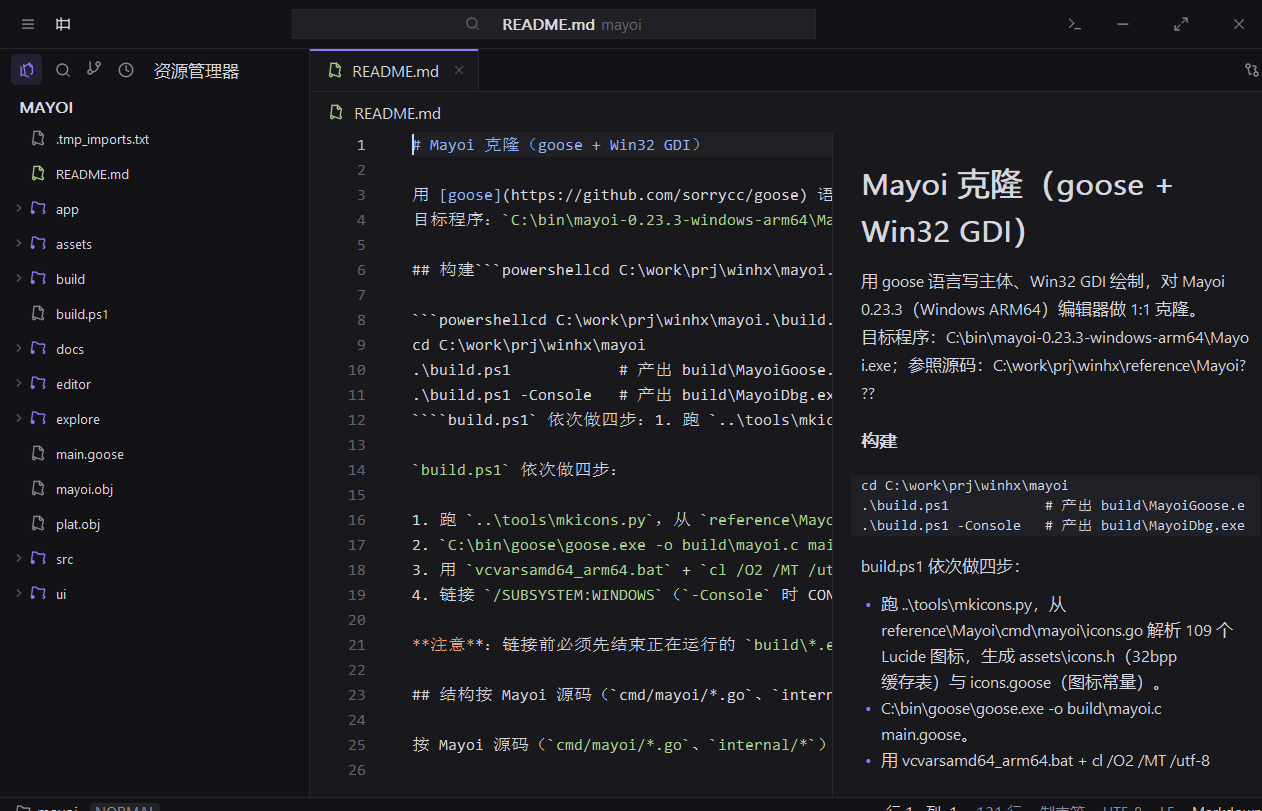
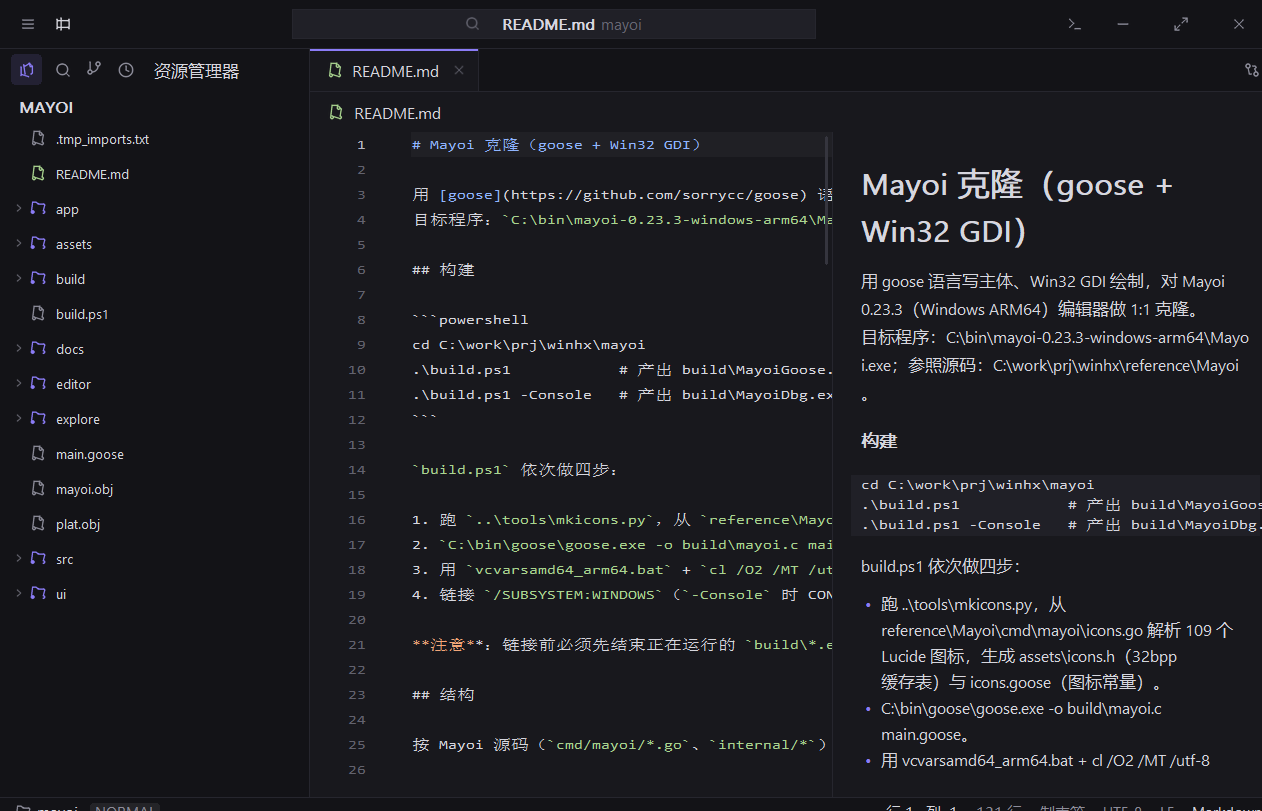
docs: preview, settings, scrollbar and SCM state; refresh preview screenshots

diff --git a/mayoi/README.md b/mayoi/README.md
@@ -64,6 +64,7 @@ cd C:\work\prj\winhx\mayoi
 | `app/prefs/model.goose` | 设置模型：解析内容表、分区名与图标、按键查值/改值、布尔/数字/枚举换算、默认值与「已更改」判定、跨分区搜索、快捷键分区 |
 | `app/prefs/paint.goose` | 设置窗口绘制：遮罩 + 940×690 窗体、标题栏与关闭、左侧搜索框/11 个分区/已更改徽标/settings.json 与 keybindings.json 链接、右侧分区标题与「用户」范围选择、逐项卡片（标题/说明/键名/控件）、开关/步进/下拉/文本框/列表、下拉浮层、滚动条 |
 | `app/prefs/input.goose` | 设置窗口交互：分区切换、搜索输入、开关、加减、下拉选择、文本编辑与提交、恢复默认、Esc 关闭、滚轮滚动、悬停 |
+| `app/preview/preview.goose` | Markdown 预览：标题/段落/列表/任务勾选框/引用/代码块/表格/分割线，按词折行并在超长词处断开，独立滚动与右侧 overlay 滚动条 |
 | `app/sidebar/sessions.goose` | 会话视图：已打开文档列表，点击切换 |
 | `editor/text.goose` | 文档模型：行索引、插入/删除/替换、选区、列/行换算 |
 | `editor/syntax.goose` | Go 语法着色（关键字/字符串/注释/数字） |
@@ -91,6 +92,10 @@ cd C:\work\prj\winhx\mayoi
 - Vim 模式（设置里打开 `vim`，或菜单「查看 › Vim 模式」）：状态栏显示 NORMAL / INSERT / VISUAL / V-LINE / EX 徽标（NORMAL 灰底、INSERT 紫、VISUAL 琥珀），并显示已敲的前缀键。支持 h j k l w b e 0 ^ $ gg G（带 count）、dd cc yy、d/c/y + 移动、x p P、i a I A o O、u / Ctrl+R、v / V、`:` 命令行（`:w` `:q` `:wq` `:x` `:<行号>`）、Esc 逐级退出；寄存器跨行保存，重切文档回到 NORMAL。（`docs/vim-normal.png`、`vim-insert.png`、`vim-visual.png`）
 - 插件系统：读 `~/.mayoi/plugins` 下各文件夹的 `plugin.json`（name / displayName / version / description / author），设置「插件」分区列出已安装卡片（字母 tile、版本·作者、描述、启用开关、垃圾桶）、空态、安装卡片与「插件设置」4 项；启用状态写在 `settings.json` 的 `plugins` 键（`{"<name>": {"enabled": false}}`），支持重新加载、打开插件文件夹、选择文件夹安装（xcopy 复制）、两次点击删除（rmdir）。插件命令本身不执行（无 JS 运行时）。（`docs/plugins.png`、`plugins-off.png`、`plugins-empty.png`）
 - 最小化恢复：`WM_SIZE` / `WM_ACTIVATE` / `WM_SHOWWINDOW` / `WM_DPICHANGED` 在窗口过程里被 `PostMessage` 转发进 goose 队列（`0x8002`…`0x8005`），恢复时 `SWP_FRAMECHANGED` + 重建 DIB + 重排 + 重绘，修复「最小化再恢复一片黑」。
+- Markdown 预览：`markdownMode` 决定打开 `.md` 的方式——源代码（默认）/ 实时预览（编辑器 54% + 预览 46%）/ 阅读视图（整块预览）；菜单「查看 › 切换预览 / 切换实时预览 / 在侧边打开预览」与 Ctrl+Shift+V 均可切换。预览逐行解析 `#` 标题（1 级用标题字体）、`> ` 引用（左侧 accent 竖条）、`- * +` 与 `1.` 列表（accent 圆点、缩进）、`- [ ]` / `- [x]` 任务勾选框、``` 围栏代码块（surface 底纹）、`|` 表格（网格线 + 表头底纹 + 按内容分配列宽）、`---` 分割线，普通段落按词折行、超长 token 在字符处硬断并避开 UTF-8 中界；`plain()` 去掉 `**` `*` `` ` `` 与 `[text](url)`，反斜杠只转义 Markdown 标点，Windows 路径不被吃掉；预览可独立滚动（`docs/preview.png`、`preview-side.png`）。
+- 设置生效：`appearance` 切换深/浅两套调色板，`fontSize` / `fontWeight` / `lineHeight` / `fontFamily` 重新生成代码字体与行高（`monospace` 在 GDI 上回落 Consolas），改设置即时生效并落盘。
+- 代码区右侧 overlay 滚动条：仅在内容超出一屏时出现，4px 圆角，位置随滚动比例。
+- 下方面板：四个标签各自有内容——问题「未发现问题。」、输出「输出通道暂无内容。」、终端（`PS ...>` 提示与输出）、调试「调试会话尚未启动，按 F5 开始调试。」。
 - 标签条：42px 高，标签 42+label+42，活动标签 2px accent 顶边与 1px 右边框，图标 16px、关闭按钮 14px、脏标记。
 - 面包屑：`cmd › mayoi › editor.go` 形式，末段为文件图标 + 文件名。
 - 代码区：行高 25、单元格 9px（Consolas 16px + `lfWidth=9`，单次 `TextOut` 即可保持 9px 步进）、行号右缘 `x0+56`、正文起点 `x0+102`、当前行底纹 `#202025`。
@@ -119,12 +124,12 @@ cd C:\work\prj\winhx\mayoi
 
 ## 未完成
 
-- 下方面板（问题/输出/终端/调试）内容与终端命令执行仍为近似；markdown 预览未做。
-- Vim 还差视觉模式的 `J` / `>` / `<` / 缩进等命令；缩进宽度等编辑器选项尚未反作用到渲染（`vimCtrlKeys` 已接：打开后 Ctrl+F/B/R/A/X 交回普通编辑）。
+- 下方面板的问题/输出/调试页只有空态文字，终端是回显而非真正的 PTY（`build.ps1` 之类命令只在外部终端跑）。
+- 自动换行（`wordWrap` / 标签页 Alt+Z）尚未反作用到编辑器绘制，长行仍是横向滚动。
+- Vim 还差视觉模式的 `J` / `>` / `<` / 缩进等命令。
 - 命令面板/全局查找/快速打开有浮层但结果列表与交互未完整跑通。
-- 编辑器右侧滚动条（Mayoi 是滚动时浮现的 overlay 样式）未实现。
-- 本机没有在 PATH 上的 `git.exe`（已下载 MinGit 2.56.1 到 `C:\bin\mingit`，未加入 PATH，程序也不会自行找它）：「初始化仓库」「提交」仍只能给出「未找到 Git」提示。
-- 设置的 63 项已能落盘到 `settings.json`，但字号、主题等尚未反作用到编辑器；`keybindings.json` 底部链接仅作展示，`用户` 范围选择未接文件夹级设置。
+- 预览不解析行内 `**加粗**` / `` `code` `` 的差异化样式（只去掉标记），也不画 mermaid、LaTeX、图片与 `![alt](url)`。
+- 本机 `git.exe` 只在 `C:\bin\mingit`：源代码管理已优先用它（分支、更改、初始化、提交可用），但 Git 菜单里的推送/拉取/储藏等仍未接。
 - 插件只做清单、启停、安装/删除/重载、列表与详情页（点卡片进入：名称、版本·作者、启用开关、目录、说明、插件设置；`docs/plugin-detail.png`）：没有 JS 运行时，插件的命令、`contributes`、格式化/language server 均不执行。
 - 树菜单的「粘贴」恒灰（文件剪贴板未实现）；「在终端中打开」目前仅调用系统终端打开目录。
 - 侧栏/菜单字体用 Segoe UI，参考（Skia）字形更细，近邻放大仍有可见的笔画差异。
